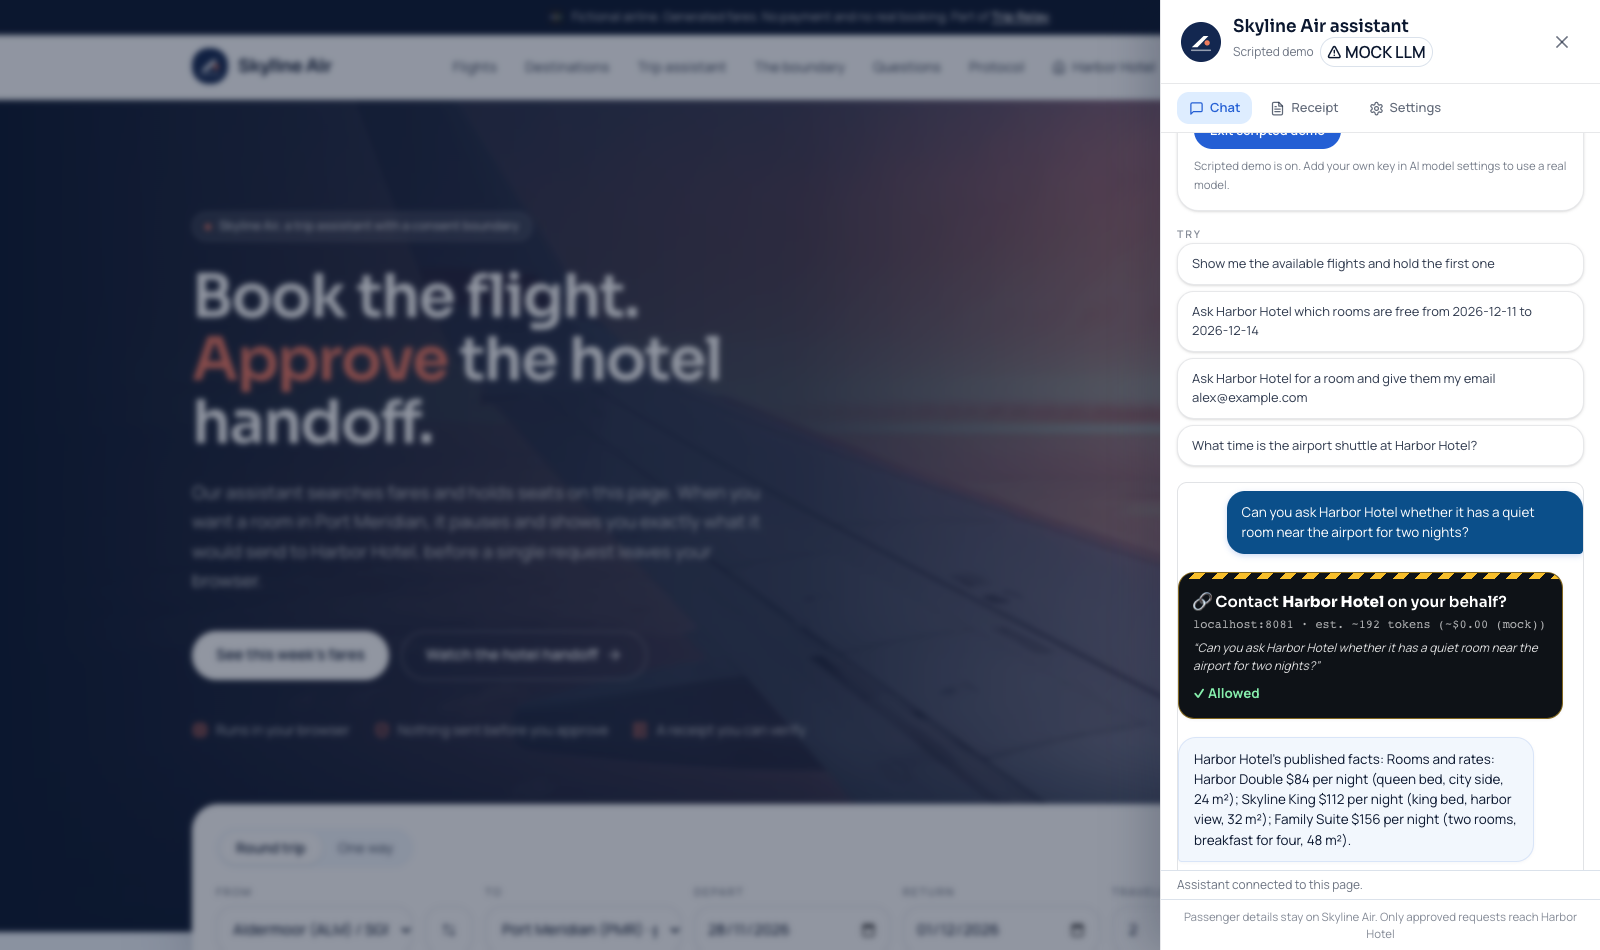
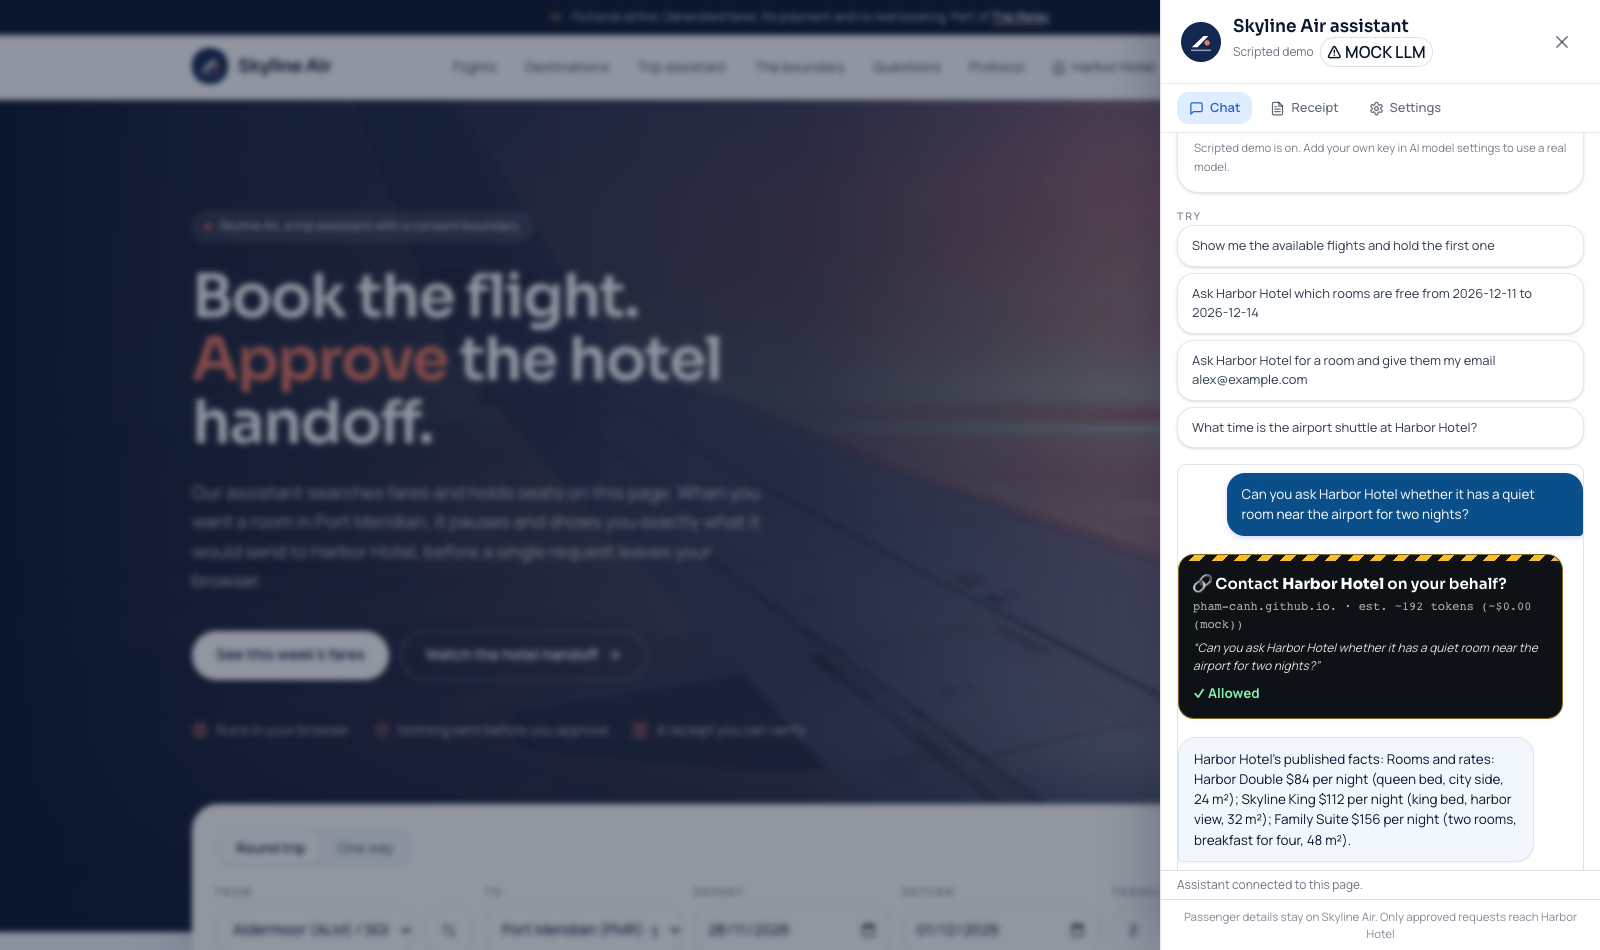
Refresh the gallery from the deployed redesign
Recapture all seven Devpost images against the live pair, including the
booking reference, the hosted hotel origin on the consent card, and the
Receipt tab with a verified chain. Record the new deploy commits and the
2026-11-28 check runs.

Changed region(s): [[0.7188, 0.2442, 1.0, 0.6716], [0.75, 0.1221, 0.9688, 0.1832]]

diff --git a/docs/SUBMIT.md b/docs/SUBMIT.md
@@ -6,7 +6,7 @@ Deadline: **11 January 2027, 16:00 UTC** (8:00am PST). The Devpost form is submi
 
 `main` is pushed with the entrant-voice cut, the DLP benchmark, the Privacy receipt, per-tab receipt persistence, the keyless demo, and the expanded browser pass (2026-11-26). The `test` job, the benchmark step, and the manual `origin-check` workflow are green. `PROTOCOL.md`, `docs/ORIGIN.md`, `docs/trip-relay-demo.mp4`, and `docs/trip-relay-demo-own-voice.mp4` load on GitHub, and the README says 35 tests plus the benchmark, with `crytobot459@gmail.com` as the Otari contact.
 
-The live pair was redeployed on 2026-11-26 and serves the DLP runtime, the Privacy receipt with per-tab persistence, and the keyless demo. The airline is commit `92f71cc` on `gh-pages`; the hotel is unchanged at commit `02c84e7` on the `main` branch of `pham-canh/pham-canh.github.io`. `npm run check:origins`, `npm run check:browser` (67/67 local), `npm run check:browser:live` (13/13 hosted, re-run 2026-11-28), and `npm run check:browser:demo` (10/10 hosted, re-run 2026-11-27) pass. A separate live smoke check also confirmed the receipt restores after a reload and clears cleanly. The docs, the origin check, and the browser check live on `main` only.
+The live pair was redeployed on 2026-11-28 and serves the redesigned drawer UI, the DLP runtime, the Privacy receipt with per-tab persistence, and the keyless demo. The airline is commit `615ab31` on `gh-pages`; the hotel is commit `cdc7dce` on the `main` branch of `pham-canh/pham-canh.github.io`. `npm run check:origins`, `npm run check:browser` (67/67 local), `npm run check:browser:live` (13/13 hosted, re-run 2026-11-28), and `npm run check:browser:demo` (10/10 hosted, re-run 2026-11-28) pass. A separate live smoke check also confirmed the receipt restores after a reload and clears cleanly. The docs, the origin check, and the browser check live on `main` only.
 
 If a later change needs pushing, the existing Git credentials can push `main`:
 

diff --git a/docs/ORIGIN.md b/docs/ORIGIN.md
@@ -13,7 +13,7 @@ An origin is **scheme + host + port**. `https://pham-canh.github.io/trip-relay/`
 
 ## Evidence
 
-Recorded on 2026-11-24 in Chrome on macOS, against the live pair; the consent and receipt flow was re-run on 2026-11-25 after the DLP deploy, and the receipt persistence and keyless demo were re-run on 2026-11-26 and again on 2026-11-27:
+Recorded on 2026-11-24 in Chrome on macOS, against the live pair; the consent and receipt flow was re-run on 2026-11-25 after the DLP deploy, and the receipt persistence and keyless demo were re-run on 2026-11-26 and 2026-11-27; the redesigned pair was checked on 2026-11-28:
 
 | Check | Airline | Hotel |
 | --- | --- | --- |

diff --git a/docs/DEVPOST-EDIT.md b/docs/DEVPOST-EDIT.md
@@ -92,6 +92,8 @@ The redesign adds a hotel hero image and refreshes the drawer screenshots. Repla
 6. `docs/screenshots/privacy-receipt.png`
 7. `docs/screenshots/hotel-mobile.png`
 
+All seven were recaptured from the deployed pair on 2026-11-28. The consent, answer, and receipt shots use the keyless demo and show the real `pham-canh.github.io.` origin plus the visible `MOCK LLM` label.
+
 ## 7. After the story is current
 
 1. Post the **Update draft** from `docs/DEVPOST.md`.
